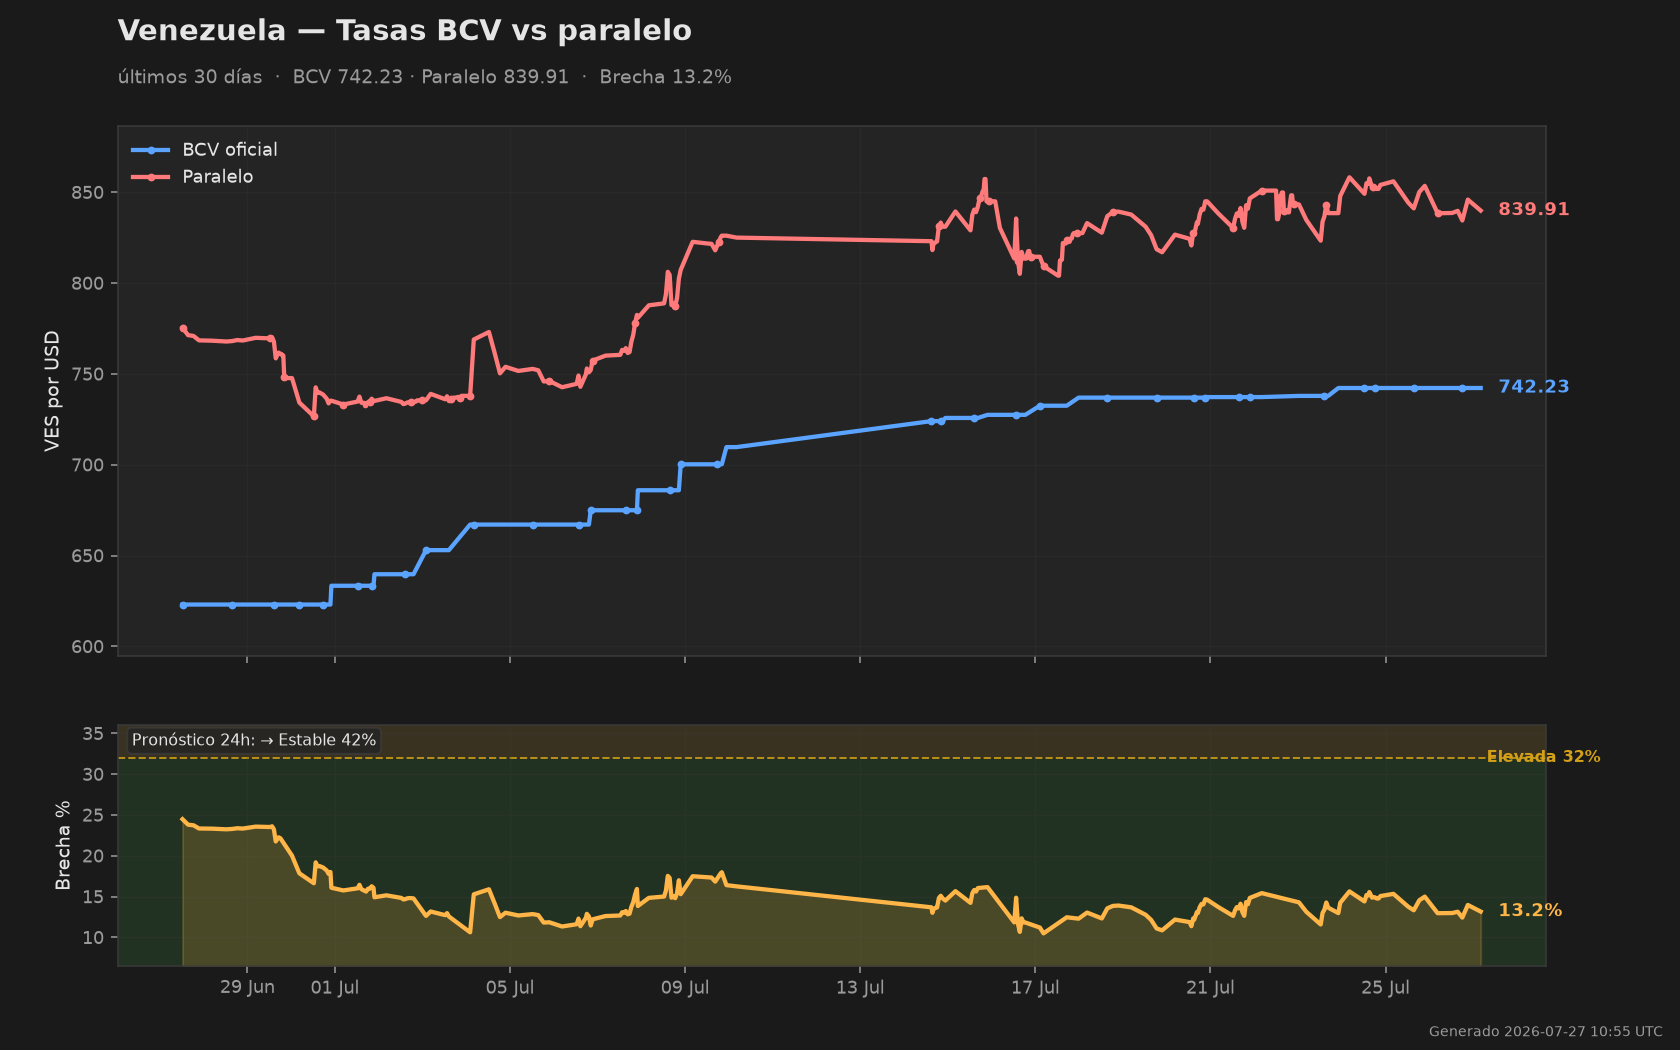
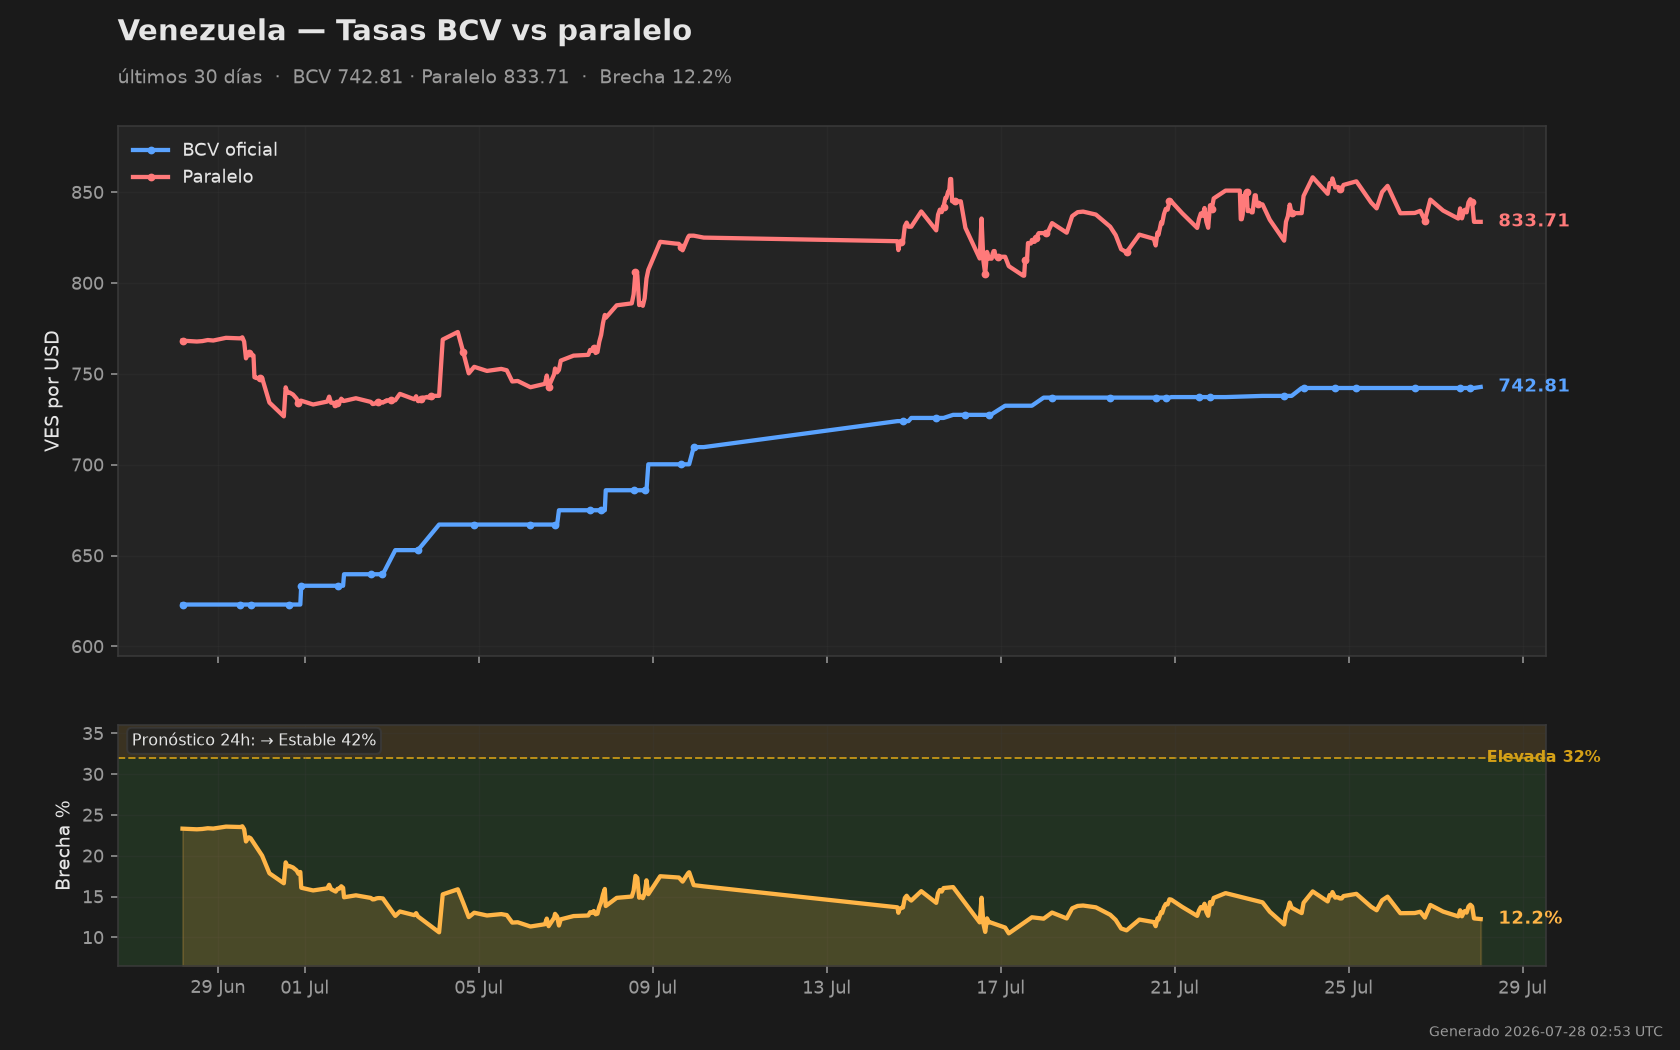
Dashboard update 2026-07-28 02:53 UTC

diff --git a/README.md b/README.md
@@ -10,12 +10,12 @@
 
 | Metric · Métrica | Value · Valor |
 |---|---|
-| BCV Oficial | **742.23** VES/USD |
-| Paralelo | **839.91** VES/USD |
-| Brecha · Spread | **13.2%** |
-| Binance P2P USDT/VES | **858.35** VES/USDT (+2.2% vs paralelo) |
+| BCV Oficial | **742.81** VES/USD |
+| Paralelo | **833.71** VES/USD |
+| Brecha · Spread | **12.2%** |
+| Binance P2P USDT/VES | **845.70** VES/USDT (+1.4% vs paralelo) |
 | **Pronóstico 24h · 24h Forecast** | **↑ Ensanchando · Widening (41%)** |
-| Actualizado · Updated | 2026-07-27 04:08 UTC |
+| Actualizado · Updated | 2026-07-28 00:52 UTC |
 
 ![Venezuela BCV vs parallel rate — last 30 days](data/chart.png)
 
@@ -29,8 +29,8 @@ Cada día compiten dos modelos sobre el mismo pronóstico: una **línea base** (
 
 | Model · Modelo | Brier ↓ | vs Baseline | Forecasts Scored · Evaluados |
 |---|---|---|---|
-| naive (baseline) | 0.702 ± 0.059 | — | 68 |
-| stat | 0.681 ± 0.049 | −0.021 ≈ | 68 |
+| naive (baseline) | 0.704 ± 0.059 | — | 69 |
+| stat | 0.686 ± 0.050 | −0.018 ≈ | 69 |
 
 *Accumulating live data since May 2026 · Acumulando datos en vivo desde mayo 2026*
 
